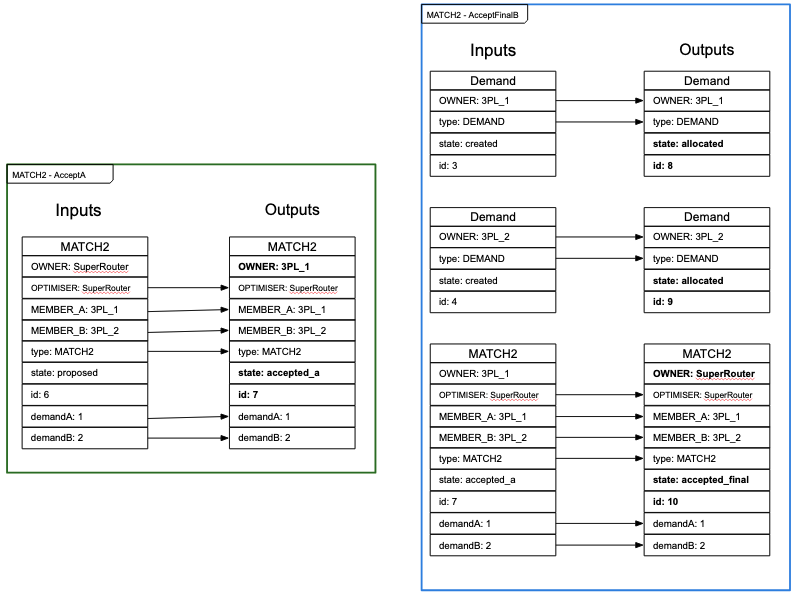
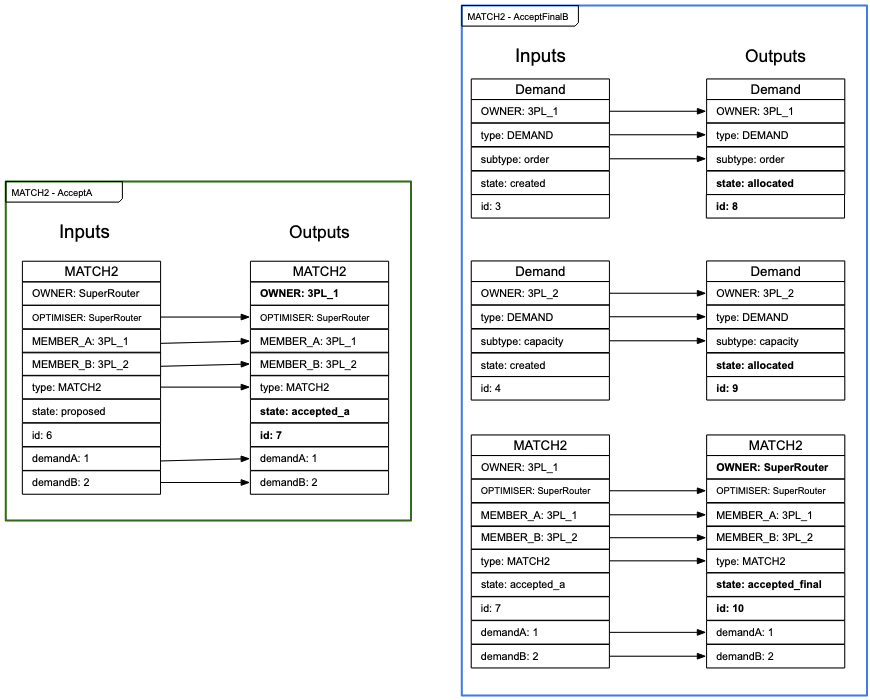
L3 models - 2nd draft (#10)
* l3 docs

* assets

* add ref in top level

* link

* cleanup

* demand subtype, state table

* add demandCreate

* add process flow to index

Changed region(s): [[0.5139, 0.0, 1.0, 1.0], [0.0, 0.2428, 0.4836, 0.8196]]

diff --git a/docs/l3/tokens.md b/docs/l3/tokens.md
@@ -2,13 +2,17 @@
 
 [Full example](https://docs.google.com/drawings/d/1A7XaDMwlpOjIGasTgv61KOS0sE9tFrBO5sXeuKMN5ag/edit)
 
+## Key
+
+![key](../../assets/l3/key.png)
+
 ## Roles
 
-<span style="font-weight:bold; color:#38761d">MEMBER_A</span>
+![#38761d](https://placehold.co/15x15/38761d/38761d.png) <b>MEMBER_A</b>
 
-<span style="font-weight:bold; color:#0000ff">MEMBER_B</span>
+![#0000ff](https://placehold.co/15x15/0000ff/0000ff.png) <b>MEMBER_B</b>
 
-<span style="font-weight:bold; color:#ff0000">OPTIMISER</span>
+![#ff0000](https://placehold.co/15x15/ff0000/ff0000.png) <b>OPTIMISER</b>
 
 ## Token types
 
@@ -17,6 +21,17 @@ Represents either a member's order or a member's capacity.
 
 Represents the proposal and allocation of one member's order to a different member's capacity.
 ![match2](../../assets/l3/match2.png)
+
+## States
+
+| Token    | State            | Represents                                                                                                                                                                                                                                                                                                                                                                                         |
+| -------- | ---------------- | -------------------------------------------------------------------------------------------------------------------------------------------------------------------------------------------------------------------------------------------------------------------------------------------------------------------------------------------------------------------------------------------------- |
+| `DEMAND` | `created`        | An order/capacity that a member has made available to be matched. If the demand is no longer required, the token can be burned.                                                                                                                                                                                                                                                                    |
+|          | `allocated`      | An order/capacity that's allocated to a corresponding capacity/order in a `MATCH`. Allocation can't be cancelled, the token can no longer be burned.                                                                                                                                                                                                                                               |
+| `MATCH2` | `proposed`       | A proposed pairing of an order (`DemandA`) and a capacity (`DemandB`). `DemandA` could be an order `DEMAND` and `DemandB` a capacity, as long as there's one of each, not two orders or two capacities. The first accept of a `proposed` `MATCH2` can be made by either member. `DemandA` and `DemandB` must come from different members. Only references the demands, doesn't change their state. |
+|          | `accepted_a`     | A proposed `MATCH2` that has been accepted by the owner of `DemandA`. Still only references the demands, doesn't change their state.                                                                                                                                                                                                                                                               |
+|          | `accepted_b`     | A proposed `MATCH2` that has been accepted by the owner of `DemandB`. Still only references the demands, doesn't change their state.                                                                                                                                                                                                                                                               |
+|          | `accepted_final` | A proposed `MATCH2` that has been accepted by both members. At this point the demands change state to `allocated`.                                                                                                                                                                                                                                                                                 |
 
 ## Transactions
 
@@ -28,13 +43,17 @@ Created by a member.
 ### Match2
 
 An optimiser proposes the matching of a single order from some `MEMBER_A` to a single capacity of a different `MEMBER_B`.
+
 ![match2 create](../../assets/l3/match2-create.png)
 
 Accept flow if `MEMBER_A` accepts first, then `MEMBER_B`.
+
 ![match2 ab](../../assets/l3/match-ab.png)
 
 Accept flow if `MEMBER_B` accepts first, then `MEMBER_A`.
+
 ![match2 ba](../../assets/l3/match-ba.png)
 
 A match can be rejected by any party before it is fully accepted.
+
 ![match2 reject](../../assets/l3/match-reject.png)

diff --git a/docs/tokenModels/bestPractice.md b/docs/tokenModels/bestPractice.md
@@ -2,22 +2,28 @@
 
 When defining token models, there are a number of best practices to follow:
 
-1. Avoid arrays and lists
+1. Avoid arrays and lists.
+
    It can be difficult to generate guard rails for variable size transactions e.g. adding X of a list of items (each with their own token) to an order. If a transaction can involve a variable number of inputs and outputs, the guard rails need to cover every variation. It's simpler to define a single transaction that can be run X number of times. For example if there were a transaction for adding an item to an order, you only need to define `AddItemToOrder` once and it can be run several times over a list of items. The alternative would be defining `Add1ItemToOrder`, `Add2ItemsToOrder`... It isn't possible to define `AddListOfItemsToOrder`. For lists containing large numbers of items, transactions of larger orders of magnitude can be made and combined e.g. add 32 items to an order with 3 x `Add10ItemsToOrder` and 2 x `AddItemToOrder`.
 
-2. Prefer FILE metadata over LITERAL metadata
+2. Prefer FILE metadata over LITERAL metadata.
+
    Tokens should contain as minimal metadata as possible. The `LITERAL` metadata type is for storing data that is (or possibly will be) referred to in a process guardrails e.g. token `TYPE`. All entity-specific data, even something as small as the ID of an order, should be stored as a `FILE`. The only other time `LITERAL` should be used is if there is a clear requirement that a value be available at all times.
 
 3. All tokens have `type`, `state` and `version` literals.
+
    These are the predominant way in which workflows are guarded. If the problem set requires a hierarchical state machine across a large number of tokens, it is acceptable to group them using an additional 'sub-state' literal e.g. `subState: 'acceptableOrder'`, otherwise `or` can be used in guard rails to define multiple acceptable states.
 
 4. Assigned roles should consistently describe the persona of an actor with respect to that token `type`.
+
    This means an account may be a `supplier` for one purchase order but a `buyer` for another. Also this largely means guardrails should always be in place to require that roles are copied over from one token to the next equivalent state.
 
 5. The splitting up of data across multiple metadata `FILE` should be based on how visibility should be assigned.
+
    Only split metadata into multiple files if there is a use case where only some of the information in that file should be released. This is important when encrypting file contents and verifiably sharing data.
 
 6. When a token array (for example an item/row in a purchase order) is associated with a container token (in this case a purchase order) a mechanism for requiring these match up should be implemented.
+
    This will likely be in the form of a `TOKEN_ID` metadata item on the item/row token associated with the initial PO token.
 
 ## Versioning

diff --git a/docs/tokenModels/index.md b/docs/tokenModels/index.md
@@ -1,17 +1,17 @@
 # Token Models
 
-Reducing the time it takes to generate new Veritable projects is a long-term improvement goal of the Veritable platform. There can be a lot of manual setup when starting a new Veritable project, and one of the most time-consuming is defining a project's tokens. Tokens on chain are the source of truth in any implementation of Veritable. Defining a **token model** means:
+Reducing the time it takes to generate new DSCP projects is a long-term improvement goal of the DSCP platform. There can be a lot of manual setup when starting a new DSCP project, and one of the most time-consuming is defining a project's tokens. Tokens on chain are the source of truth in any implementation of DSCP. Defining a **token model** means:
 
 - representing real-world entities as tokens with types, roles and metadata.
 - representing real-world status of entities at a particular moment in time. (e.g. completing the build of a part, dispatching an order of three parts) as process flows - chain transactions that burn/create one to many tokens.
 - deriving the necessary guard rails (restrictions) to ensure integrity of data within transactions (and therefore on chain).
-- deriving the user-facing API routes required to run process flows via [veritable-api](https://github.com/digicatapult/dscp-api). This includes database schema for local representation of tokens.
+- deriving the user-facing API routes required to run process flows via [dscp-api](https://github.com/digicatapult/dscp-api). This includes database schema for local representation of tokens.
 
 In our roadmap, we plan on implementing:
 
     - re-usable token types, roles and metadata.
     - re-usable process flows.
-    - a visual framework for defining new token types, roles, metadata and process flows. A 'skilled technical user' with domain knowledge could design flow diagrams to be interpreted by a Veritable expert into transactions (with guard rails), API routes and database schema. A visual tool would aim to reduce the knowledge required for a user to start a Veritable project - especially in terms of needing to understand blockchain idiosyncrasies.
+    - a visual framework for defining new token types, roles, metadata and process flows. A 'skilled technical user' with domain knowledge could design flow diagrams to be interpreted by a DSCP expert into transactions (with guard rails), API routes and database schema. A visual tool would aim to reduce the knowledge required for a user to start a DSCP project - especially in terms of needing to understand blockchain idiosyncrasies.
     - a data schema for representing token type, roles and metadata and process flows. The schema could be programmatically interpreted to generate transactions (with guard rails) and API routes.
     - export of the visual diagram to that data schema.
 

diff --git a/docs/l3/index.md b/docs/l3/index.md
@@ -9,3 +9,11 @@ Part of the shared infrastructure is built using `DSCP`.
 ## READMEs
 
 - [Token models](./tokens.md)
+
+## Process flows
+
+Process flows for transactions in the L3 token model can be found in `/processFlows`. Each process flow is a `.json` that can be supplied to the [`dscp-process-management`](https://github.com/digicatapult/dscp-process-management) cli tool for creating that process on chain:
+
+```
+process-management create -h localhost -p 9944 -u //Alice "$(cat demandCreate.json)"
+```
